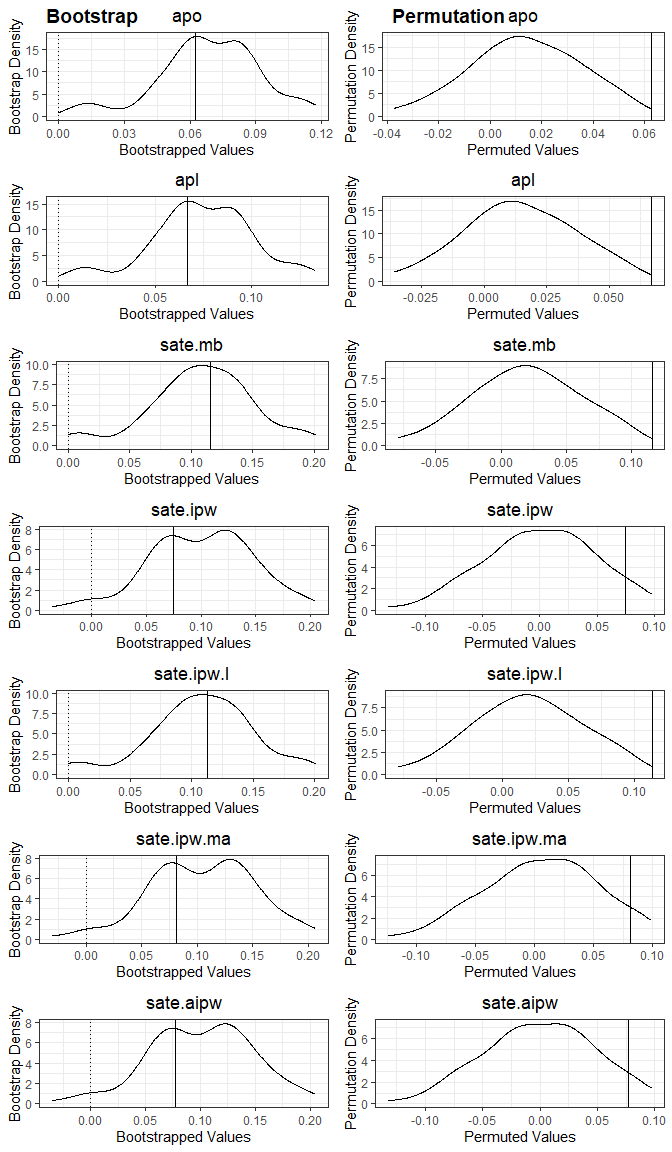
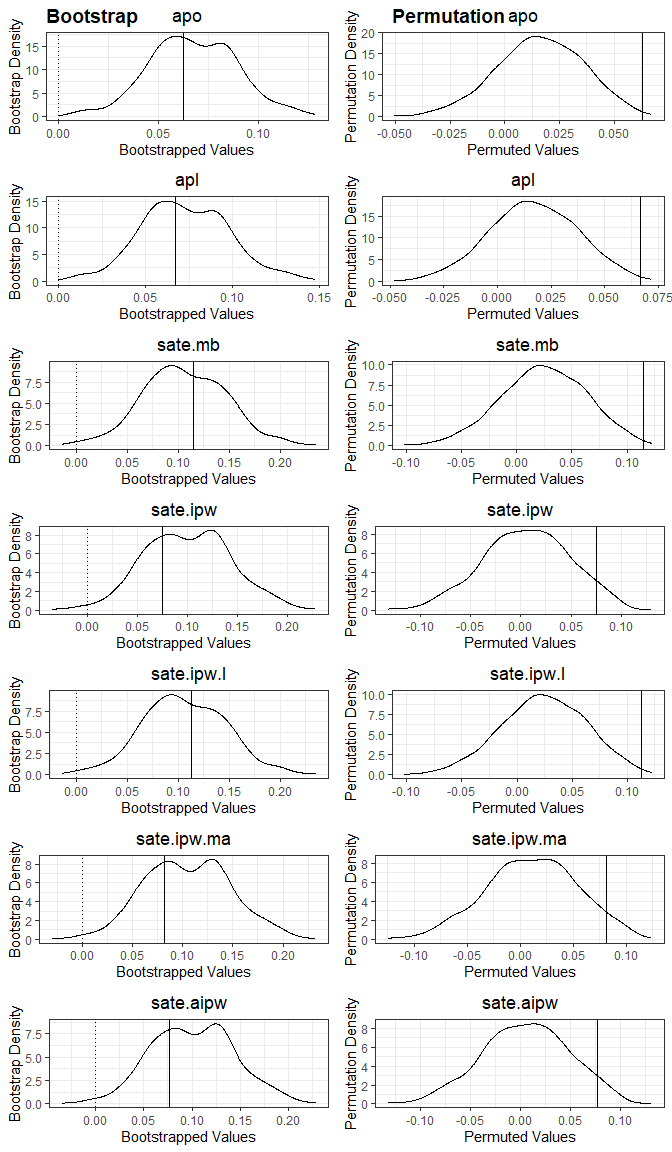
Updated README to include the package website.

diff --git a/README.md b/README.md
@@ -26,8 +26,7 @@ remotes::install_github("Zy1225/RainAttr")
 ## Example
 
 This basic example shows how to use the package for estimation,
-bootstrap inference, and permutation inference. For simplicity, the
-numbers of bootstrap and permutation replicates are both set to 100.
+bootstrap inference, and permutation inference.
 
 ``` r
 library(RainAttr)
@@ -82,7 +81,7 @@ result = rain_attr(
   bootstrap = TRUE,
 
   #Specification of various option for bootstrap, e.g., bootstrap_opt(bootstrap_type = 'PREB1'), currently support bootstrap_type = 'PREB0', 'PREB1', 'PREB2', 'REB0', 'REB1', 'REB2', 'MREB1'
-  bootstrap_option = bootstrap_opt(B_bootstrap = 100, 
+  bootstrap_option = bootstrap_opt(B_bootstrap = 500, 
                                    bootstrap_seed = 123, 
                                    bootstrap_parallel = TRUE,
                                    bootstrap_parallel_num_worker = 6),
@@ -91,7 +90,7 @@ result = rain_attr(
   permutation = TRUE,
 
   #Specification of various option for permutation,  e.g., whether to permute the operating states between ionizers, between days, between gaugedays
-  permutation_option = permutation_opt(B_permutation = 100,
+  permutation_option = permutation_opt(B_permutation = 500,
                                        permutation_seed = 999,
                                        permutation_parallel = TRUE,
                                        permutation_parallel_num_worker = 6)
@@ -108,18 +107,18 @@ summary(result)
 #> 
 #> Attribution Results (Assuming Log-Rainfall being Modelled):
 #>     Estimate  95% Bootstrap CI Bootstrap P-Val Permutation P-Val
-#> apo    6.27% (1.2221%, 11.13%)            0***              0***
-#> apl    6.69% (1.2374%, 12.53%)            0***              0***
+#> apo    6.27% (2.3799%, 11.21%)            0***              0***
+#> apl    6.69%  (2.438%, 12.63%)            0***              0***
 #> ---
 #> Signif. codes:  0 '***' 0.001 '**' 0.01 '*' 0.05 '.' 0.1 ' ' 1
 #> 
 #> SATE Results:
 #>             Estimate 95% Bootstrap CI Bootstrap P-Val Permutation P-Val
-#> sate.mb       0.1153 (0.0069, 0.1901)            0***              0***
-#> sate.ipw      0.0751 (-3e-04, 0.1863)           0.04*             0.06.
-#> sate.ipw.l    0.1132 (0.0067, 0.1903)            0***              0***
-#> sate.ipw.ma   0.0813  (0.0049, 0.191)           0.01*             0.06.
-#> sate.aipw     0.0771  (0.001, 0.1873)           0.02*             0.05.
+#> sate.mb       0.1153 (0.0259, 0.1899)            0***              0***
+#> sate.ipw      0.0751  (0.022, 0.1861)           0.01*             0.05.
+#> sate.ipw.l    0.1132 (0.0263, 0.1898)            0***              0***
+#> sate.ipw.ma   0.0813 (0.0278, 0.1895)           0.01*             0.05.
+#> sate.aipw     0.0771 (0.0243, 0.1877)           0.01*             0.05.
 #> ---
 #> Signif. codes:  0 '***' 0.001 '**' 0.01 '*' 0.05 '.' 0.1 ' ' 1
 #> 
@@ -192,6 +191,11 @@ plot(result)
 ```
 
 <img src="man/figures/README-unnamed-chunk-2-1.png" width="100%" />
+
+## Documentation
+
+Full documentation, function references, and worked examples are
+available on the [pkgdown website](https://zy1225.github.io/RainAttr/).
 
 ## References
 
